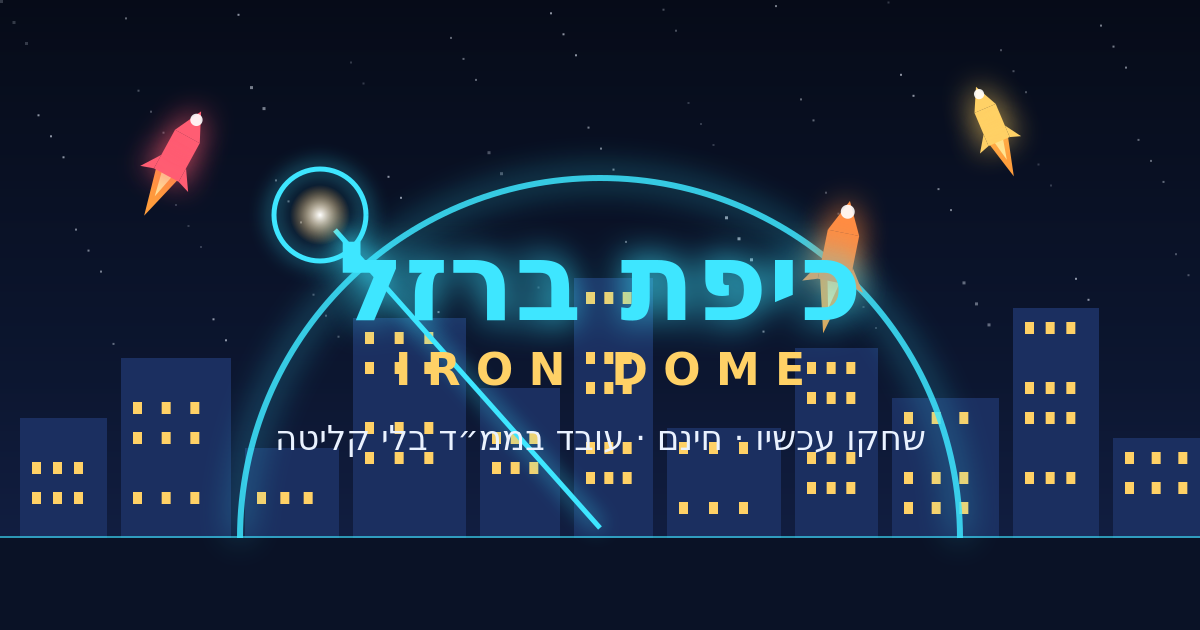
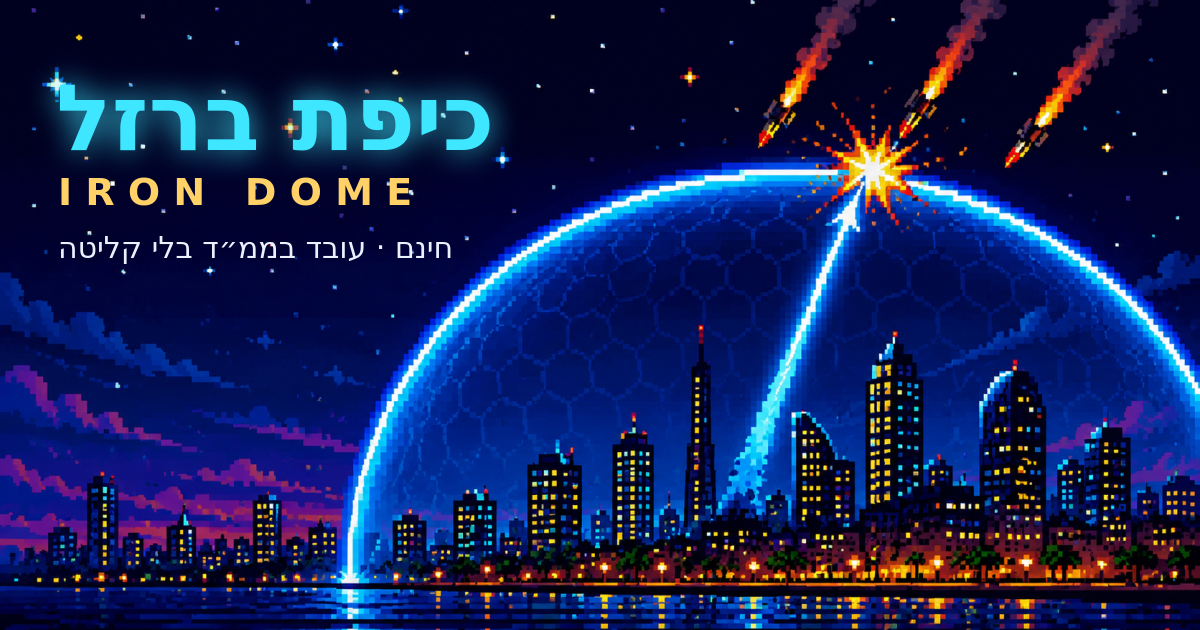
Elite art pass: retro pixel share card + full promo asset suite (#82)
* Add Iron Dome arcade game at /irondome/

Tap-to-intercept arcade game, light enough to play in a shelter:
- 10 levels across Israeli cities (Sderot to Eilat), each harder
- 5 rocket types: normal, fast, heavy (2 hits), zigzag, splitter
- Power-ups: slow-mo, mega blast, shield dome, iron beam
- Persistent upgrades: blast radius, interceptor speed, extra
  launcher, Iron Sling auto-intercept
- Hebrew/English toggle with full RTL support
- Offline-first installable PWA (service worker + manifest)
- Single-file game, synth audio via WebAudio, no external assets

https://claude.ai/code/session_01FhxA9RqQLo75hUS9dsu7up

* Update nucleus: Iron Dome v1 shipped (PR #70)

https://claude.ai/code/session_01FhxA9RqQLo75hUS9dsu7up

* chore: refresh nucleus live state [skip ci]

* chore: refresh nucleus live state [skip ci]

* Mobile visibility overhaul + per-city skylines + falafel impacts

- Rockets redesigned: nose cone + fins + flickering exhaust flame and
  puffy smoke trail, ~25% bigger with brighter glow so they read
  clearly on small screens
- Pulsing red incoming-warning chevrons at the top edge before each
  rocket enters, so nothing appears unannounced
- Bottom third is now a real city backdrop per level: Sderot water
  tower & dunes, Ashkelon marina, Ashdod port cranes, Beer Sheva
  desert, Tel Aviv towers (Azrieli trio), Netanya cliff, Jerusalem
  hills + old wall + gold dome, Haifa Carmel slope + gardens, Eilat
[…]

diff --git a/irondome/index.html b/irondome/index.html
@@ -9,13 +9,13 @@
 <meta property="og:title" content="כיפת ברזל — המשחק | Iron Dome">
 <meta property="og:description" content="לחצו על הרקטות לפני שהן נופלות. עובד בממ״ד בלי קליטה. חינם, בלי הורדה — שניה ואתם משחקים.">
 <meta property="og:url" content="https://zorbachin.github.io/dubaiai-pro/irondome/">
-<meta property="og:image" content="https://zorbachin.github.io/dubaiai-pro/irondome/share-card.png">
+<meta property="og:image" content="https://zorbachin.github.io/dubaiai-pro/irondome/share-card.jpg">
 <meta property="og:image:width" content="1200">
 <meta property="og:image:height" content="630">
 <meta property="og:locale" content="he_IL">
 <meta name="twitter:card" content="summary_large_image">
 <meta name="twitter:title" content="כיפת ברזל — Iron Dome">
-<meta name="twitter:image" content="https://zorbachin.github.io/dubaiai-pro/irondome/share-card.png">
+<meta name="twitter:image" content="https://zorbachin.github.io/dubaiai-pro/irondome/share-card.jpg">
 <meta name="apple-mobile-web-app-capable" content="yes">
 <meta name="apple-mobile-web-app-status-bar-style" content="black-translucent">
 <link rel="manifest" href="manifest.webmanifest">

diff --git a/.claude/nucleus/NUCLEUS.md b/.claude/nucleus/NUCLEUS.md
@@ -46,6 +46,11 @@ _Newest first. Written automatically by hooks and by `nucleus push` from any
 surface. This is the message-in-a-bottle between sessions._
 
 <!-- HANDOFFS:START -->
+### 2026-06-11 02:53 UTC · code
+Art direction decided on ChatGPT image passes: RETRO pass -> share card (readable at thumbnail size, single clear story); FIRST pass panorama -> press hero (richness rewards full-size, tells the 10-cities story); icon/falafel-meme/story/daily-badge all approved as-is. BLOCKED on full-res originals from Zorba (uploads were ~300-600px chat-compressed; need ChatGPT downloads direct or via Drive). Then: typography overlay, icon regen 192/512, share-card + promo swap, WhatsApp-safe compression, one-pass re-ship.
+
+### 2026-06-10 19:09 UTC · code
+OVERNIGHT SHIFT COMPLETE: promo pack merged (PR #81, content-assets/irondome-promo/) — full bilingual launch copy (WhatsApp x4, Telegram DM+post, Reddit x2, press HE+EN, X, meme pages, 20s clip script, crisis one-liners, seeding checklist) + visual cards (story/square/meme/share) + v15 screenshots. ChatGPT image prompts EMAILED to Zorba for the elite art pass (6 prompts, no-text rule, palette locked). MORNING PLAN: Zorba does domain + GoatCounter + ChatGPT images -> Claude swaps URL in one pass (it's on its own line everywhere), composites Hebrew typography on new art, re-ships -> seeding begins per checklist.
 ### 2026-06-10 19:00 UTC · code
 Iron Dome launch promo pack complete at /tmp/PROMO-PACK.md: WhatsApp (4 msgs incl. parents + alert-night protocol), Telegram admin DM + channel post, Reddit x2, press pitches HE/EN, X posts, meme-page DM, 20s clip script, crisis one-liners, seeding checklist. URL on own line everywhere for domain swap. No em-dashes in personal copy.
 ### 2026-06-10 18:53 UTC · code
@@ -172,6 +177,8 @@ VENTURE CHRONOLOGY (new, from Zorba — NOT previously documented; build-in-publ
 ### 2026-06-02 11:05 UTC · chat
 ISSUE 001 REWRITTEN = origin story 'The First Call' (his real story): came back engaged/broke/no job/sublet -> married -> baby coming -> WAR days after wedding -> obsessing over AI in the bomb shelter -> first call, second call -> finally got over the unease of POSTING. MISSION (clearer now): build a business to take back his own time AND give time back to others. NOT to make people AI-obsessed; he likes people who want to grow + use tools well; loves solving problems like he does ON SET. Building LIVE, exposed: 'follow me, make that first call/post yourself.' Voice: plain, confessional, anti-hype, sell the WHY (time/freedom). Masthead recut (title 'The First Call'). Kept Three Two-Minute Time-Savers as closing segment. Substack IS SET UP — ready to paste & publish. Updated voice-guide story assets (house/war now filled).
 
+
+
 ### 2026-06-02 11:02 UTC · chat
 NEWSLETTER PLATFORM = SUBSTACK (chosen). The Dispatch recurring segment: 'Three Two-Minute Time-Savers' (one WORK, one LIFE, one HEALTH; quick/fun; each a copy-paste prompt). Issue 001 written (content-assets/newsletter/ISSUE-001.md): feature 'Buy Back Your Time' + the 3 time-savers (kill the email thread / plan the night out / fridge->meal + 12-min calisthenics workout). Opt-in INVITE drafted (content-assets/newsletter/INVITE.md) — personal invites + warm leads + content-engine growth, NEVER import-and-blast. Masthead billing updated to feature the time-savers segment.
 
@@ -181,13 +188,16 @@ NEWSLETTER PLATFORM = SUBSTACK (chosen). The Dispatch recurring segment: 'Three 
 
 ### 2026-06-02 10:59 UTC · chat
 NEWSLETTER = 'The Dispatch' — cinematic, vintage movie-announcement style (built: content-assets/newsletter/dispatch-no-001.png via bin/cinema_news.py). Aged paper, double frame, 'proudly presents', dramatic serif billing, marquee bar, 'printed for a select readership'. NO LIST YET + DO NOT spam his contacts (kills deliverability + relationships). PLAN: use a real ESP (Substack or Beehiiv free) for compliance/unsubscribe; SEED via personal opt-in invites (Claude drafts) to people he knows + warm leads (post-repliers, clients like vybewear, video commenters); grow as a byproduct of the content engine (every post -> 'join the Dispatch'). Cadence: monthly/biweekly 'issue' = an event, quality over frequency. Positioning: 'a select readership', worth-their-time storytelling.
-
 <!-- HANDOFFS:END -->
 
 ## 🔄 Live State (auto)
 _Refreshed automatically after each turn — do not edit by hand._
 
 <!-- AUTOSTATE:START -->
+- **When:** 2026-06-11 02:53 UTC
+- **Branch:** `claude/iron-dome-game-zi3dtt`
+- **Last commit:** 6cda150 chore: refresh nucleus live state [skip ci] — 13 seconds ago
+
 - **When:** 2026-06-10 19:00 UTC
 
 - **When:** 2026-06-10 18:53 UTC
@@ -207,6 +217,12 @@ _Refreshed automatically after each turn — do not edit by hand._
 
 **Recent commits:**
 ```
+6cda150 chore: refresh nucleus live state [skip ci] (13 seconds ago)
+4fa7e02 chore: refresh nucleus live state [skip ci] (8 hours ago)
+5c97328 chore: refresh nucleus live state [skip ci] (8 hours ago)
+5e6703b Merge remote-tracking branch 'origin/main' into claude/iron-dome-game-zi3dtt (8 hours ago)
+009da8e Iron Dome launch promo pack: copy + cards + screenshots (8 hours ago)
+
 510087a chore: refresh nucleus live state [skip ci] (4 minutes ago)
 fa3306c chore: refresh nucleus live state [skip ci] (5 minutes ago)
 d5a1cd2 Merge remote-tracking branch 'origin/main' into claude/iron-dome-game-zi3dtt (6 minutes ago)